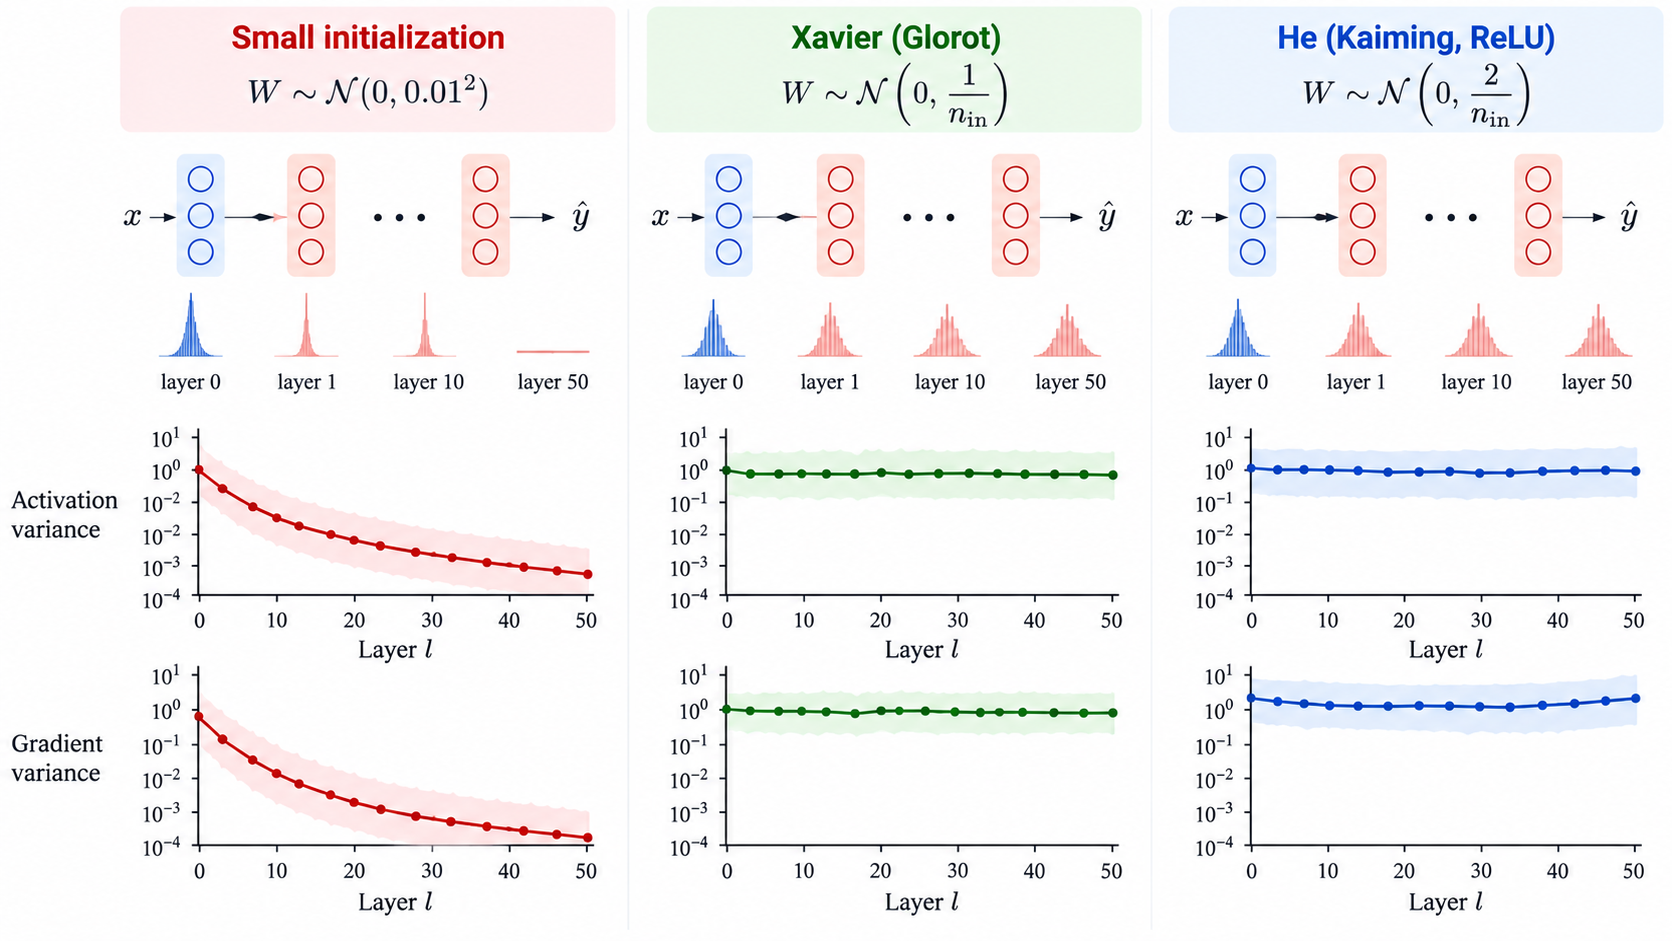
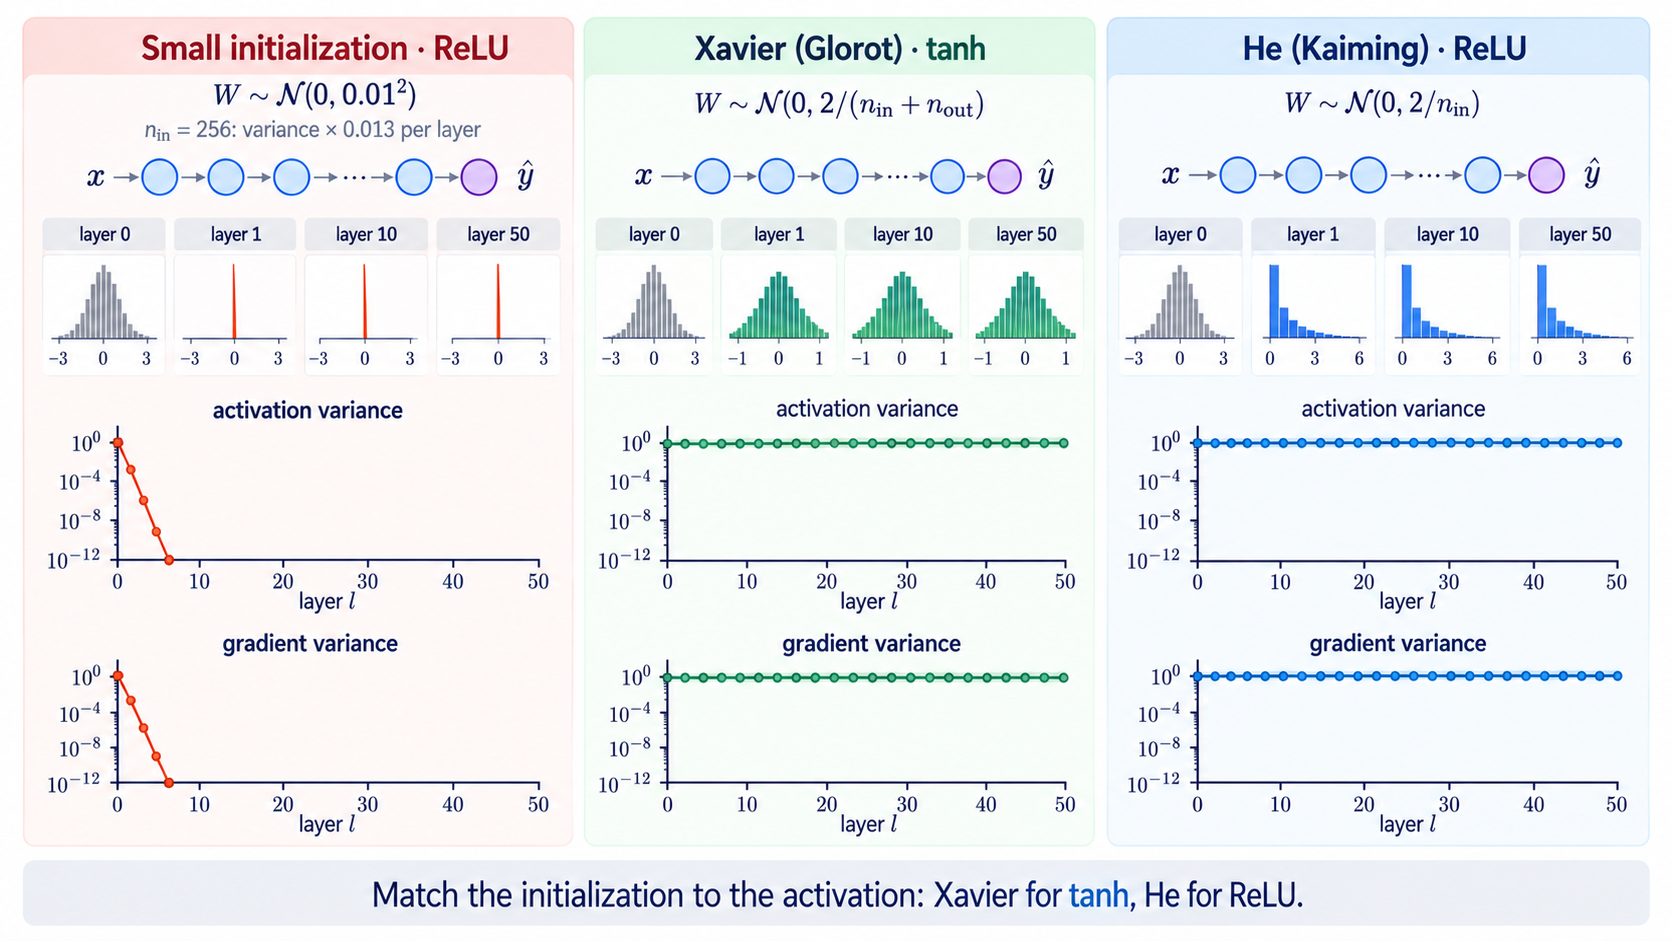
S02: replace F07 with corrected version (Xavier 2/(n_in+n_out) with tanh, He with ReLU)
Claude-Session: https://claude.ai/code/session_012SkrgDu3HsLNCjj3PJkQW9

diff --git a/sessions/02_deep_training/figures/figures.md b/sessions/02_deep_training/figures/figures.md
@@ -22,7 +22,7 @@ Pending figures are HTML comments in the slide source (`<!-- Pending figure: ...
 | **S02-F04** | V16 | Gradient norm versus layer depth for vanishing, stable and exploding regimes | `s02_f04_gradient_norm_depth.png` | PNG | Included |
 | **S02-F05** | V18 | Sigmoid, tanh and ReLU: functions and derivative regions | `s02_f05_activation_derivatives.png` | PNG | Included |
 | **S02-F06** | V24 | Symmetry problem when hidden units share identical initialization | `s02_f06_initialization_symmetry.png` | PNG / SVG | Included |
-| **S02-F07** | V29 | Naive, Xavier and He initialization compared through activation variance | `s02_f07_initialization_variance.png` | PNG | Included — needs correction to deck Xavier variance |
+| **S02-F07** | V29 | Naive, Xavier and He initialization compared through activation variance | `s02_f07_initialization_variance.png` | PNG | Included |
 | **S02-F08** | V37 | SGD and Momentum trajectories in a narrow valley | `s02_f08_sgd_momentum_valley.png` | PNG | Covered by S02-A02 |
 | **S02-F09** | V40 | Optimizer trajectories on the same ill-conditioned objective | `s02_f09_optimizer_trajectories.svg` | SVG | Included |
 | **S02-F10** | V41 | Learning-rate schedules | `s02_f10_learning_rate_schedules.svg` | SVG | Included |
@@ -45,7 +45,6 @@ Pending figures are HTML comments in the slide source (`<!-- Pending figure: ...
 
 ## Review notes
 
-- **S02-F07:** the Xavier panel currently labels $W\\sim\\mathcal N(0,1/n_\\text{in})$, while the deck derives $\\operatorname{Var}(W)=2/(n_\\text{in}+n_\\text{out})$. The shown stable behavior is also inconsistent with a ReLU network, where Xavier would halve the variance approximately layer by layer. The small-initialization activation axis repeats $10^{-2}$.
 - **S02-F25 / S02-F26:** these use superscript notation ($a^{(l)}$, $h^{(l)}$, $\\mathcal L$) and $L$ for depth, while the deck uses $a_l$, $D$ and $J$. F26's Jacobian product also requires transposes under the column-vector convention used in the deck.
 
 ### Current production backlog

diff --git a/sessions/02_deep_training/figures/figure_prompts.md b/sessions/02_deep_training/figures/figure_prompts.md
@@ -32,7 +32,7 @@ Slide numbers refer to the current `../slides/S02_slides.marp.md`.
 | S02-F01 | Correction: typo and logo fixed; script 𝒥 remains (optional regeneration) | done |
 | S02-F02 | Correction: std(x) label and consistent numbers | done |
 | S02-F04 | Correction: backward direction and notation | done |
-| S02-F07 | Correction: Xavier variance, tanh vs ReLU | **pending** |
+| S02-F07 | Correction: Xavier variance, tanh vs ReLU | done |
 
 ## Common style block (prepend to every prompt)
 
@@ -354,7 +354,7 @@ Keep the three-panel layout ("Vanishing gradients", "Stable gradients", "Explodi
 
 **Check:** in every panel the norm is ≈ 1 at the right end ($l=D$); vanishing is smallest at $l=0$, exploding is largest at $l=0$. No $h^{(l)}$, no $L$ for depth.
 
-## S02-F07 · Initialization compared through variance — correction (slide 29)
+## S02-F07 · Initialization compared through variance — correction (done)
 
 File: `s02_f07_initialization_variance.png`
 
